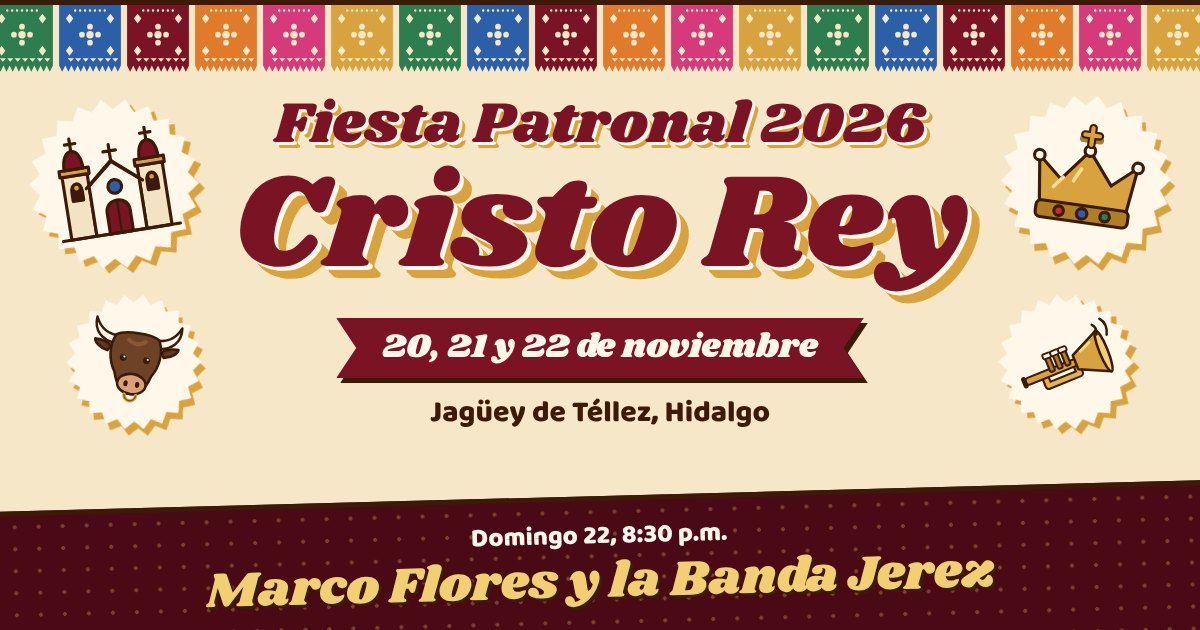
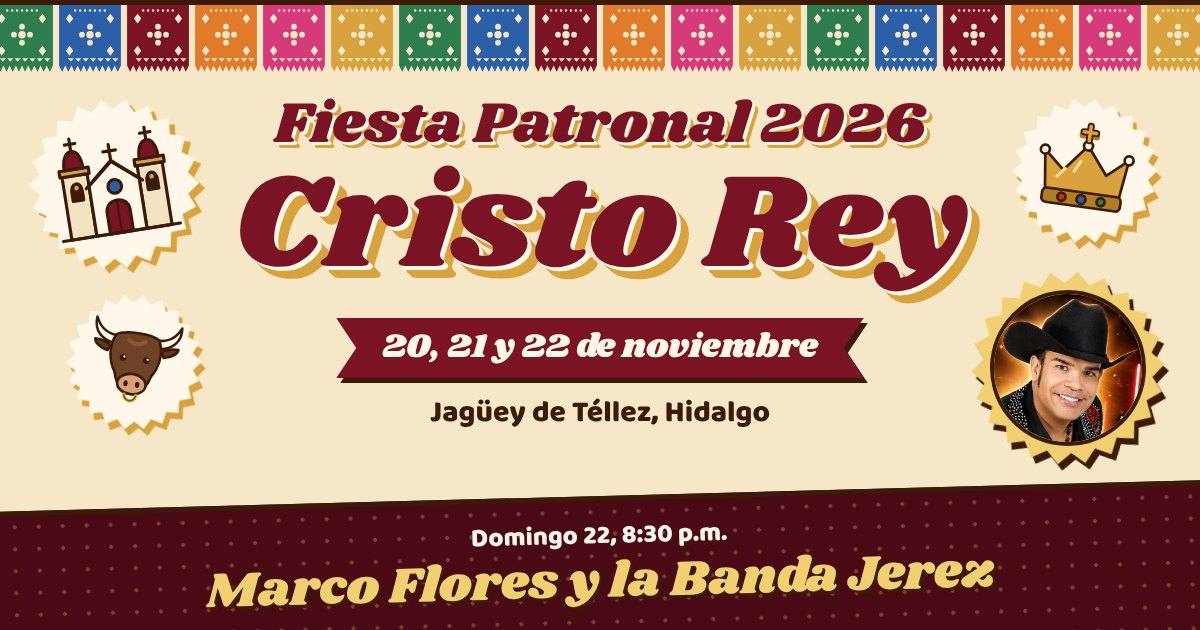
Agrega la foto de Marco Flores al bloque estelar, al boleto y a la vista previa
Claude-Session: https://claude.ai/code/session_01VNc9362fGztgL79uo1GSZA

Changed region(s): [[0.8017, 0.181, 0.9867, 0.754]]

diff --git a/index.html b/index.html
@@ -14,8 +14,8 @@
   <meta property="og:title" content="Fiesta Patronal de Cristo Rey 2026 en Jagüey de Téllez">
   <meta property="og:description" content="20, 21 y 22 de noviembre. Lo más estelar: domingo 22, 8:30 p.m., Marco Flores y la Banda Jerez. Mira todo el programa.">
   <meta property="og:url" content="https://ivanvl-18.github.io/Fiesta-Cristo-Rey/">
-  <meta property="og:image" content="https://ivanvl-18.github.io/Fiesta-Cristo-Rey/img/og-image.jpg?v=1">
-  <meta property="og:image:secure_url" content="https://ivanvl-18.github.io/Fiesta-Cristo-Rey/img/og-image.jpg?v=1">
+  <meta property="og:image" content="https://ivanvl-18.github.io/Fiesta-Cristo-Rey/img/og-image.jpg?v=2">
+  <meta property="og:image:secure_url" content="https://ivanvl-18.github.io/Fiesta-Cristo-Rey/img/og-image.jpg?v=2">
   <meta property="og:image:type" content="image/jpeg">
   <meta property="og:image:width" content="1200">
   <meta property="og:image:height" content="630">
@@ -23,7 +23,7 @@
   <meta name="twitter:card" content="summary_large_image">
   <meta name="twitter:title" content="Fiesta Patronal de Cristo Rey 2026 en Jagüey de Téllez">
   <meta name="twitter:description" content="Domingo 22, 8:30 p.m.: Marco Flores y la Banda Jerez. Mira todo el programa.">
-  <meta name="twitter:image" content="https://ivanvl-18.github.io/Fiesta-Cristo-Rey/img/og-image.jpg?v=1">
+  <meta name="twitter:image" content="https://ivanvl-18.github.io/Fiesta-Cristo-Rey/img/og-image.jpg?v=2">
 
   <link rel="icon" href="favicon.ico" sizes="32x32">
   <link rel="icon" type="image/png" sizes="32x32" href="img/favicon-32.png">
@@ -34,7 +34,7 @@
 
   <link rel="preload" href="fonts/shrikhand-latin-400-normal.woff2" as="font" type="font/woff2" crossorigin>
   <link rel="preload" href="fonts/baloo-2-latin-700-normal.woff2" as="font" type="font/woff2" crossorigin>
-  <link rel="stylesheet" href="css/styles.css?v=1">
+  <link rel="stylesheet" href="css/styles.css?v=2">
 
   <script type="application/ld+json">
   {
@@ -251,6 +251,13 @@
   <div class="estelar__contenido">
     <p class="estelar__cinta"><span>Lo más estelar</span></p>
     <p class="estelar__cuando">Domingo 22 de noviembre, 8:30 p.m.<br>Explanada Principal</p>
+    <figure class="estelar__foto">
+      <img src="img/marco-flores.jpg" width="720" height="720" alt="Marco Flores, de Marco Flores y la Jerez, con sombrero negro y saco bordado de rosas">
+      <span class="estelar__pegatina" aria-hidden="true">
+        <svg class="estelar__sello" viewBox="0 0 120 120"><use href="#i-sello"/></svg>
+        <svg class="estelar__dibujo" viewBox="0 0 120 120"><use href="#i-microfono"/></svg>
+      </span>
+    </figure>
     <h2 class="estelar__nombre" id="estelar-titulo">
       <span class="estelar__marco">Marco Flores</span>
       <span class="estelar__banda">y la Banda Jerez</span>
@@ -272,10 +279,6 @@
       <a class="btn btn--oro" id="calendario" href="bailazo.ics">Agregar a mi calendario</a>
       <a class="btn btn--whatsapp" id="invitar" href="https://wa.me/" target="_blank" rel="noopener">Invitar por WhatsApp</a>
     </div>
-  </div>
-  <div class="estelar__micro" aria-hidden="true">
-    <svg class="estelar__sello" viewBox="0 0 120 120"><use href="#i-sello"/></svg>
-    <svg class="estelar__dibujo" viewBox="0 0 120 120"><use href="#i-microfono"/></svg>
   </div>
 </section>
 
@@ -316,7 +319,7 @@
 
 <p class="aviso" id="aviso" role="status" aria-live="polite"></p>
 
-<script src="js/programa.js?v=1" defer></script>
-<script src="js/app.js?v=1" defer></script>
+<script src="js/programa.js?v=2" defer></script>
+<script src="js/app.js?v=2" defer></script>
 </body>
 </html>

diff --git a/css/styles.css b/css/styles.css
@@ -294,7 +294,20 @@ svg { display: block; }
 
 .estelar__botones { display: flex; flex-wrap: wrap; justify-content: center; gap: 14px; margin-top: 26px; }
 
-.estelar__micro { display: none; position: absolute; right: -18px; bottom: -14px; width: 118px; height: 118px; rotate: -10deg; opacity: .95; }
+.estelar__foto {
+  position: relative;
+  width: min(78vw, 330px); margin: 22px auto 0;
+  rotate: -2deg;
+}
+.estelar__foto img {
+  display: block; width: 100%; height: auto;
+  border: var(--borde); border-radius: 22px;
+  box-shadow: 7px 8px 0 var(--oro-claro);
+}
+.estelar__pegatina { position: absolute; right: -24px; bottom: -22px; width: 88px; height: 88px; rotate: 12deg; filter: drop-shadow(2px 3px 0 var(--cacao)); }
+@media (prefers-reduced-motion: no-preference) {
+  .estelar__foto { animation: pegar .6s cubic-bezier(.2, .9, .3, 1.35) both; animation-timeline: view(); animation-range: entry 0% entry 60%; }
+}
 .estelar__sello { position: absolute; inset: 0; width: 100%; height: 100%; fill: var(--oro-claro); }
 .estelar__dibujo { position: absolute; inset: 15%; width: 70%; height: 70%; }
 
@@ -414,6 +427,10 @@ svg { display: block; }
 .rol td:first-child { padding-right: 12px; white-space: nowrap; font-weight: 800; color: var(--vino); }
 
 /* Boleto estelar */
+.boleto__sticker .s-foto { position: absolute; inset: 11%; width: 78%; height: 78%; border-radius: 50%; object-fit: cover; border: 2.5px solid var(--cacao); }
+.boleto--estelar .boleto__sticker { width: 96px; height: 96px; top: -24px; }
+.boleto--estelar .boleto__titulo { padding-right: 80px; }
+.boleto--estelar .boleto__frase { padding-right: 70px; }
 .boleto--estelar { background: var(--vino); color: var(--crema); box-shadow: 6px 7px 0 var(--cacao); }
 .boleto--estelar .boleto__talon { background: var(--vino-oscuro); border-right-color: rgba(255, 248, 234, .35); }
 .boleto--estelar .boleto__hora { color: var(--oro-claro); }
@@ -527,12 +544,12 @@ svg { display: block; }
   .boleto__titulo { font-size: 1.35rem; padding-right: 70px; }
   .boleto__sticker { width: 88px; height: 88px; top: -24px; right: -18px; }
   .lugares { grid-template-columns: repeat(2, minmax(0, 1fr)); }
-  .estelar__micro { display: block; width: 170px; height: 170px; right: 4%; bottom: 8%; }
 }
 
 /* ---------- Escritorio ---------- */
 
 @media (min-width: 1000px) {
+  .estelar__foto { width: 380px; }
   .portada { padding: 18px 24px 64px; }
   .portada__stickers { position: static; height: 0; margin: 0; }
   .sticker { position: absolute; width: 180px; margin: 0; }
@@ -544,6 +561,5 @@ svg { display: block; }
   .chispa--2 { right: calc(50% - 380px); top: 110px; }
   .portada__invita { margin-top: 40px; font-size: 1.15rem; }
   .estelar { padding: 70px 24px 80px; }
-  .estelar__micro { width: 210px; height: 210px; right: 8%; bottom: 18%; }
   .mapa iframe { height: 380px; }
 }

diff --git a/js/app.js b/js/app.js
@@ -65,7 +65,7 @@
           ${e.estelar ? '<a class="boleto__mas" href="#estelar">Ver la cuenta regresiva</a>' : ''}
           <div class="boleto__sticker" aria-hidden="true">
             <svg class="s-sello" viewBox="0 0 120 120"><use href="#i-sello"/></svg>
-            <svg class="s-dibujo" viewBox="0 0 120 120"><use href="#i-${e.icono}"/></svg>
+            ${e.foto ? `<img class="s-foto" src="${esc(e.foto)}" alt="" width="240" height="240" loading="lazy">` : `<svg class="s-dibujo" viewBox="0 0 120 120"><use href="#i-${e.icono}"/></svg>`}
           </div>
         </div>
       </article>`;

diff --git a/js/programa.js b/js/programa.js
@@ -161,6 +161,7 @@ window.FIESTA = {
       inicio: '2026-11-22T20:30:00-06:00', fin: '2026-11-23T02:30:00-06:00',
       hora: '8:30', ampm: 'p.m.',
       titulo: 'Gran Bailazo de Lujo', icono: 'microfono',
+      foto: 'img/marco-flores-cara.jpg',
       frase: 'Lo más estelar de la fiesta.',
       lugar: 'la Explanada Principal',
       datos: [
